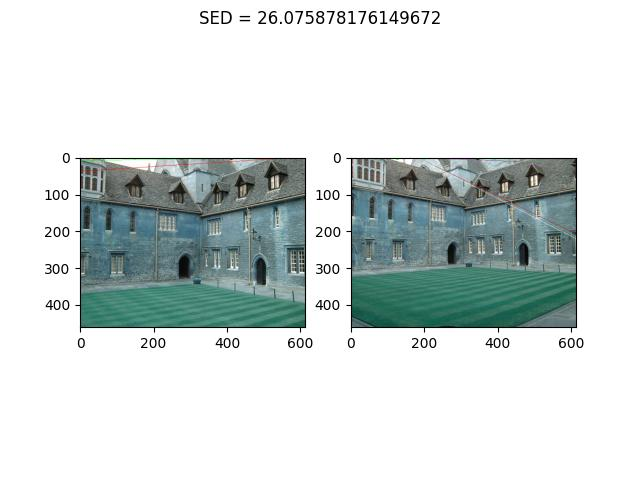
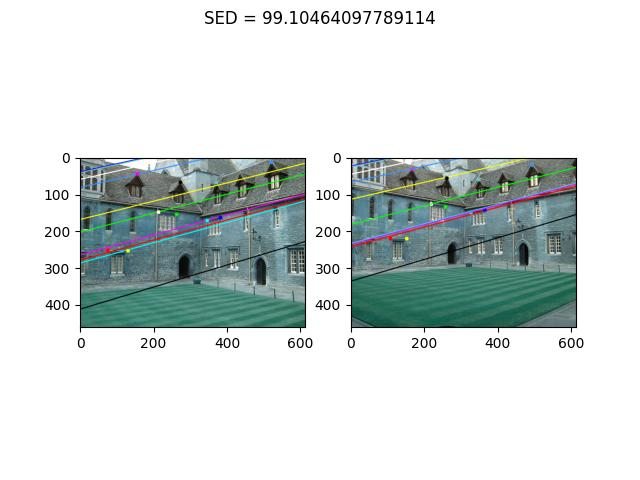
Finished Coding

diff --git a/HW2/Q1/Q1.py b/HW2/Q1/Q1.py
@@ -34,7 +34,7 @@ def draw_lines(img1, img2, lines, pts1, pts2, used_colors):
         color = used_colors[i]
         x_0, y_0 = map(int, [0, -r1_[2] / r1_[1]])
         x_1, y_1 = map(int, [c_, -(r1_[2] + r1_[0] * c_) / r1_[1]])
-        img1 = cv2.line(img1, (x_0, y_0), (x_1, y_1), color, 1)
+        img1 = cv2.line(img1, (x_0, y_0), (x_1, y_1), color, 2)
         img1 = cv2.circle(img1, (pt1[0], pt1[1]), 5, color, -1)
         img2 = cv2.circle(img2, (pt2[0], pt2[1]), 5, color, -1)
         i += 1
@@ -91,9 +91,8 @@ if __name__ == "__main__":
     sets = [(loc2_frame1, loc2_frame2, 'loc2'), (loc1_frame1, loc1_frame2, 'loc1')]
 
     for im1, im2, file_prefix in sets:
-
-        getImagePts(im1, im2, file_prefix + '_s1', file_prefix + '_s2')
-        getImagePts(im1, im2, file_prefix + '_t1', file_prefix + '_t2')
+        # getImagePts(im1, im2, file_prefix + '_s1', file_prefix + '_s2')
+        # getImagePts(im1, im2, file_prefix + '_t1', file_prefix + '_t2')
 
         s1 = np.load(file_prefix + '_' + 's1.npy').astype(int)  # first set - left image points
         s2 = np.load(file_prefix + '_' + 's2.npy').astype(int)  # first set - right image points
